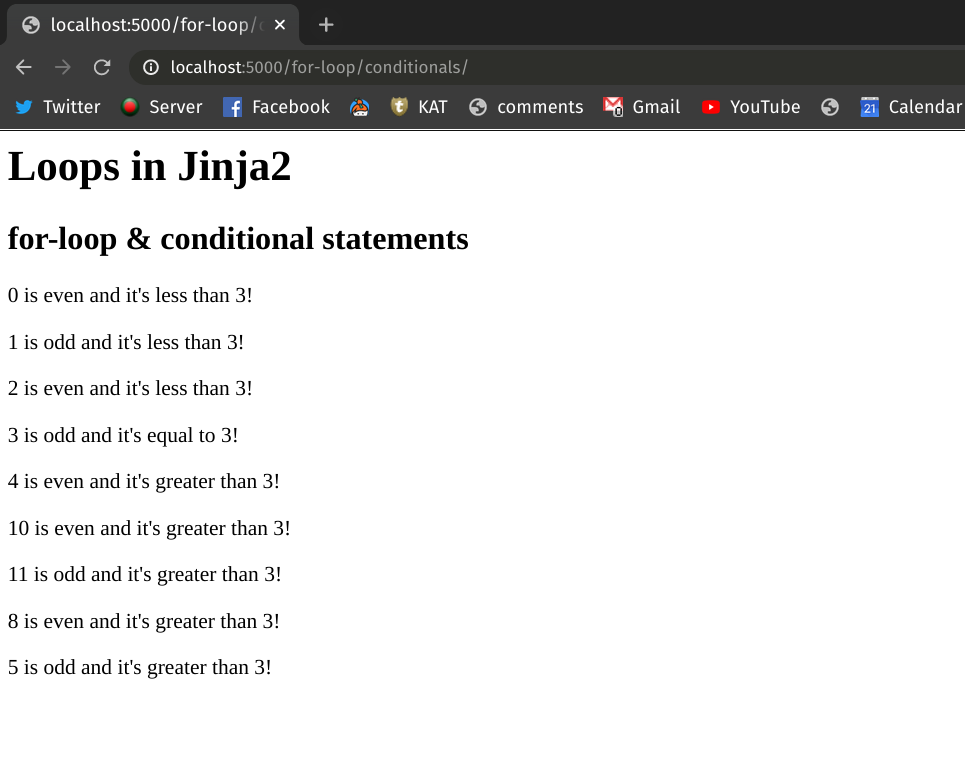
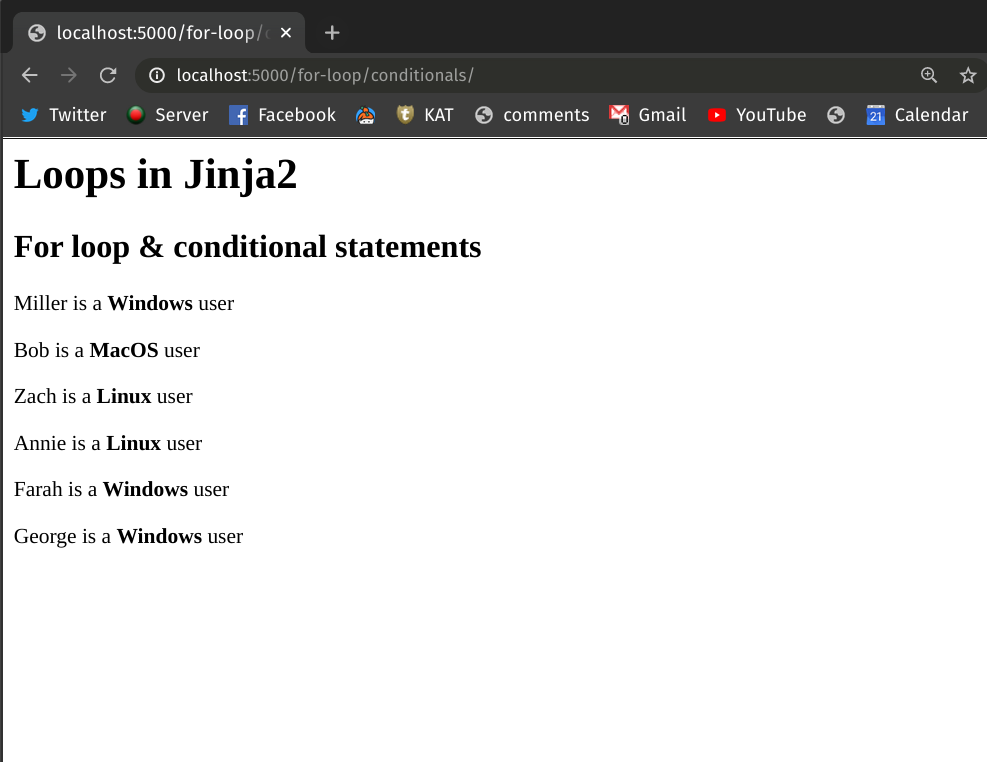
Final draft of loop

Changed region(s): [[0.0, 0.0, 1.0, 0.9055]]

diff --git a/curriculum/section06/lectures/06_jinja2_loops/README.md b/curriculum/section06/lectures/06_jinja2_loops/README.md
@@ -1,25 +1,24 @@
 # Jinja2: Loops
 
-Like conditional statements, Jinja2 templating language also allows you to write loop[^loop-jinja2] structures. However, only `for-loop` is supported and you need to simulate `while-loop` like behavior with `for-loop` if you need that.
+Like conditional statements, the Jinja2 templating language also allows you to write loop[^loop-jinja2] structures. However, Jinja2 only supports *for loops*. If you want to use a while loop, you'll need to simulate its behaviour with a for loop.
 
-Loops in Jija2 templates can make your workflow more flexible since you can embed some of your logic that requires the loop structure directly into the template.
 
 ## Looping Through List Objects
 
-In this section, we'll see how you can add `for-loop` based logic to your Jinja2 template. Make a template named `for_loops.html` and place that in your Flask project's `/templates` folder. Now, add the following contents to the template:
+In this section, we'll see how you can add *for loop* based logic to your Jinja2 template. Make a template named `for_loop.html` and place that in your Flask project's `/templates` folder. Then, add the following contents to the template:
 
 ```html
-<!-- templates/for_loops.html -->
+<!-- templates/for_loop.html -->
 
 <h1>Loops in Jinja2</h1>
-<h2>for-loop</h2>
+<h2>For loop</h2>
+<h3>Planets in Our Solar System</h3>
 
-{% for planet in planets %}
-    <h3>Planets in Our Solar System</h3>
-    <ul>
-        <li>{{ planet }}</li>
-    </ul>
-{% endfor %}
+<ul>
+    {% for planet in planets %}
+    <li>{{ planet }}</li>
+    {% endfor %}
+</ul>
 ```
 
 In the above template, we've traversed through a Python list containing the names of the planets in our solar system and showed them via an unordered HTML list. To render this, create an endpoint called `/for-loop/` and add the following code to the `app.py` file of your Flask project.
@@ -49,9 +48,9 @@ def render_loops_for():
 
 In line 10, notice how we've defined a list object containing the names of the planets and assigned it to a variable `planets`. Later on, in line 20, we've passed the variable to Flask's `render_template` method.
 
-Now, if you run the Flask application and head over to `http://localhost:5000/loops-for` on your browser, you'll see a nicely rendered bullet list showing the names of the planets.
+Now, if you run the Flask application and head over to [http://localhost:5000/for-loop](http://localhost:5000/for-loop) on your browser, you'll see a nicely rendered bullet list showing the names of the planets.
 
-![for_loop.png](./assets/for_loop.png)
+![Basic for loop example](./assets/for_loop.png)
 
 ## Looping Through Dictionary Objects
 
@@ -61,14 +60,14 @@ Let's explore another example where you'll traverse through the keys and the val
 <!-- templates/for_loop_dict.html -->
 
 <h1>Loops in Jinja2</h1>
-<h2>for-loop</h2>
-
+<h2>For loop</h2>
 <h3>World Cuisine</h3>
-{% for key, value in cuisines.items() %}
-    <ul>
-        <li>Country:{{ key }} => Cuisine: {{ value }} </li>
-    </ul>
-{% endfor %}
+
+<ul>
+    {% for key, value in cuisines.items() %}
+    <li>Country: {{ key }} => Cuisine: {{ value }}</li>
+    {% endfor %}
+</ul>
 ```
 
 In the above template, we've looped through the key-value pairs of a dictionary object called `cuisines` and showed them in an unordered HTML list. To render this, add the following code to your Flask project's `app.py`. This will create an endpoint called `/for-loop/dict/`.
@@ -95,51 +94,38 @@ def render_loops_for_dict():
 
 In line 10, we've defined a dictionary object and assigned it into variable `cuisine`. Later in line 17, we've passed the dictionary object to the `render_template` method.
 
-Run the Flask application and head over to `http://localhost:5000/loops-for/dict` on your browser. You should be able to see an unordered bullet list showing the desired contents.
+Run the Flask application and head over to [http://localhost:5000/for-loop/dict](http://localhost:5000/for-loop/dict) on your browser. You should be able to see an unordered bullet list showing the desired contents.
 
-![for_loop_dict.png](./assets/for_loop_dict.png)
+![For loop and dictionary objects](./assets/for_loop_dict.png)
 
 ## Mixing Loops & Conditionals
 
 You can combine loops and conditionals to implement more complex logic in Jinja2 template. Let's create another HTML template file named `for_loop_conditionals.html` and place that in our `/template` folder. Add the following content to the file:
 
-```html{6,7,10,13,17,20,23,26}
+```html{6,10,13}
 <!-- templates/for_loop_conditionals.html -->
 
 <h1>Loops in Jinja2</h1>
-<h2>for-loop & conditional statements</h2>
+<h2>For loop & conditional statements</h2>
 
-{% for number in numbers %}
-    {% if number % 2 == 0 and number > thresh %}
-        <p>{{ number }} is even and it's greater than {{ thresh }}!</p>
+{% for user, os in user_os %}
+    {% if os == "Windows" %}
+        <p>{{ user }} is a <b>Windows</b> user</p>
 
-    {% elif number % 2 == 0 and number < thresh %}
-        <p>{{ number }} is even and it's less than {{ thresh }}!</p>
+    {% elif os == "MacOS" %}
+        <p>{{ user }} is a <b>MacOS</b> user</p>
 
-    {% elif number % 2 == 0 and number == thresh %}
-        <p>{{ number }} is even and it's equal to {{ thresh }}!</p>
-
-    {% elif number % 2 != 0 and number > thresh %}
-        <p>{{ number }} is odd and it's greater than {{ thresh }}!</p>
-
-    {% elif number % 2 != 0 and number < thresh %}
-        <p>{{ number }} is odd and it's less than {{ thresh }}!</p>
-
-    {% elif number % 2 != 0 and number == thresh %}
-        <p>{{ number }} is odd and it's equal to {{ thresh }}!</p>
-
-    {% else %}
-        <p>{{ number }} is rogue!</p>
-
+    {% elif os == "Linux" %}
+        <p>{{ user }} is a <b>Linux</b> user</p>
     {% endif %}
 {% endfor %}
 ```
 
-In the above template, we've looped through a list of integers and checked if an individual integer is even or odd. Also, we've checked if the integer is greater than, equal to or less than a predefined threshold number, and printed a relevant message that reveals the status of the integer.
+In the above template, we've looped through a list of tuples where each tuple has two elements. The first element of the tuple denotes a user's name and the second one denotes the name of the operating system that the user uses. We've checked the type of the operating systems via conditional statements and printed different messages accordingly.
 
 To render the template using Flask, add the following code to your project's `app.py` file:
 
-```python{10,11}
+```python{10,20}
 # app.py
 
 from flask import Flask, render_template
@@ -149,19 +135,26 @@ app = Flask(__name__)
 
 @app.route("/for-loop/conditionals/")
 def render_for_loop_conditionals():
-    numbers = [0, 1, 2, 3, 4, 10, 11, 8, 5]
-    thresh = 3
-    return render_template("for_loop_conditionals.html", numbers=numbers, thresh=thresh)
+    user_os = [
+        ("Miller", "Windows"),
+        ("Bob", "MacOS"),
+        ("Zach", "Linux"),
+        ("Annie", "Linux"),
+        ("Farah", "Windows"),
+        ("George", "Windows"),
+    ]
+
+    return render_template("for_loop_conditionals.html", user_os=user_os)
 ```
 
-In line 10, the variable `numbers` refers to a list of integer and the `thresh` variable in the next line denotes the threshold number. Later we've passed the variables in the `render_template` method.
+In line 10, the variable `user_os` refers to a list of tuples containing the user's names and their respective operating system of choice. Later, we've passed the variables in the `render_template` method.
 
 Run the application and head over to [http://localhost:5000/for-loop/conditionals](http://localhost:5000/for-loop/conditionals) on your browser. You should be able to see a page like this:
 
-![loops_for_dict.png](./assets/for_loop_conditionals.png)
+![For loop with conditional statements](./assets/for_loop_conditionals.png)
 
 ## Conclusion
 
-In this lesson, you've learned about using `for-loops` in the Jinja2 template. You've also learned how you can traverse through dictionary objects and combine `for-loops` with conditional statements to implement more complex logic directly in the template.
+In this lesson, you've learned about using *for loops* in the Jinja2 template. You've also learned how you can traverse through dictionary objects and combine *for loops* with conditional statements to implement more complex logic directly in the template.
 
 [^loop-jinja2]: [Loops in Jinja2 Template](https://jinja.palletsprojects.com/en/2.11.x/templates/#for)
